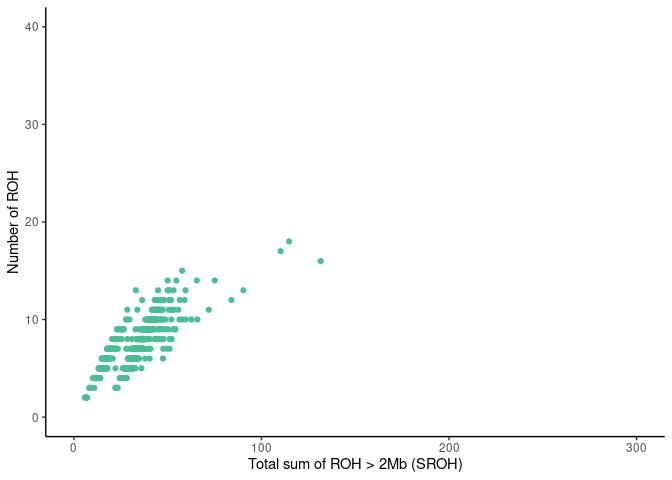
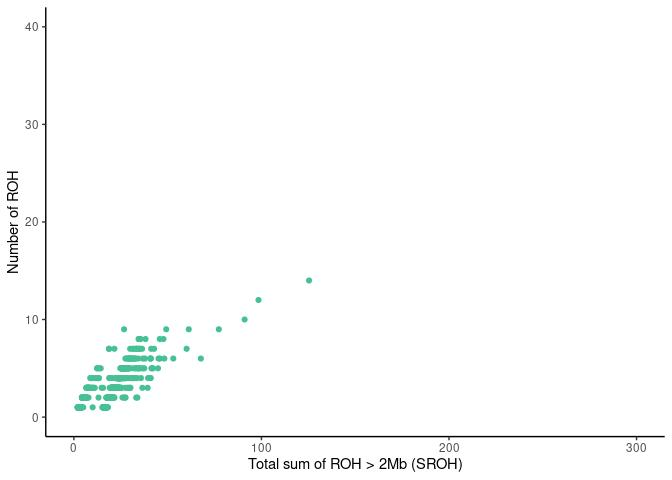
filtered centromers and new coverage plot

diff --git a/roh/roh.md b/roh/roh.md
@@ -6,29 +6,37 @@ Runs of homozygosity on 943 individuals
 #### ROHs quality histogram
 
 ``` r
-# Quality filtering: Quality>25 & #markers > 50
+# Quality filtering: Quality>25 & markers > 50 & removing all centromer regions
 roh <- roh %>% 
   filter(Quality > 25 & Number_of_markers >50)
+
+cent <- fread('cytoBand.txt') %>% select(-V4)
+colnames(cent) <- c('Chromosome','start','end','stain')
+roh <- roh %>% left_join(cent,by='Chromosome')
+roh <- roh %>% mutate(start = Start-start, end = End-end)
+roh$cent <- ifelse(roh$start > 0 & roh$end < 0, 'cent',NA)
+roh <- roh %>% filter(is.na(cent) == T) %>% 
+  select(Chromosome:sample_id)
 ```
 
 #### ROH stats after quality filtering
 
 | stat                |   min |  median |      mean |        max |
 |:--------------------|------:|--------:|----------:|-----------:|
-| Length              | 609.0 | 72459.0 | 123018.00 | 29363916.0 |
-| Number\_of\_markers |  51.0 |   132.0 |    193.66 |    33173.0 |
-| Quality             |  25.1 |    60.4 |     59.40 |       98.7 |
+| Length              | 609.0 | 71653.0 | 113793.15 | 29363916.0 |
+| Number\_of\_markers |  51.0 |   131.0 |    185.94 |    33173.0 |
+| Quality             |  25.1 |    60.5 |     59.50 |       98.7 |
 
 Average ROH size per genome (additionally filtered: &gt;100kb)
 
 | stat      |       average |
 |:----------|--------------:|
-| count     |       1124.41 |
-| maxLen    |   14239847.30 |
-| meanLen   |     252746.68 |
-| medianLen |     164071.12 |
-| minLen    |     100073.33 |
-| sumLen    | 284174602\.38 |
+| count     |       1082.49 |
+| maxLen    |   14040018.37 |
+| meanLen   |     229953.03 |
+| medianLen |     161764.60 |
+| minLen    |     100073.90 |
+| sumLen    | 248954186\.30 |
 
 ## Results
 
@@ -43,11 +51,18 @@ Average ROH size per genome (additionally filtered: &gt;100kb)
 
 ![](roh_files/figure-gfm/cummulative_sum-1.jpeg)<!-- -->
 
+Fig. Relation between size of runs of homozygozity and cumulative length
+of RoHs in an average individual.
+
     ## `summarise()` has grouped output by 'sample_id'. You can override using the `.groups` argument.
 
 ![](roh_files/figure-gfm/lengths_per_chromosome-1.jpeg)<!-- -->
 
+Fig. Distribution of mean length of runs of homozygozity per chromosome
+
 ![](roh_files/figure-gfm/numbers_per_chromosome-1.jpeg)<!-- -->
+
+Fig. Distribution of counts of runs of homozygozity per chromosome
 
 2.  Median SROH
 
@@ -60,7 +75,14 @@ Average ROH size per genome (additionally filtered: &gt;100kb)
 
 2.  Coverage heatmap
 
+<!-- -->
+
+    ## Loading required package: regioneR
+
 ![](roh_files/figure-gfm/genome_coverage_heatmap-1.jpeg)<!-- -->
+
+Fig. Chromosomal location of run of homozygozity hotspots - regions
+frequently covered by runs of homozygozity in this cohort.
 
 ### All results below are ROHs filter for autosomes with Quality &gt; 25%, Number of markers &gt; 50 and ROH length &gt; 2 Mb
 
@@ -70,40 +92,17 @@ Average ROH size per genome (additionally filtered: &gt;100kb)
 
 |     | mean\_SROH\_Mb  |
 |:----|:----------------|
-|     | Min. : 5.821    |
-|     | 1st Qu.: 28.883 |
-|     | Median : 33.855 |
-|     | Mean : 33.207   |
-|     | 3rd Qu.: 37.978 |
-|     | Max. :131.589   |
+|     | Min. : 2.016    |
+|     | 1st Qu.: 17.179 |
+|     | Median : 20.304 |
+|     | Mean : 20.350   |
+|     | 3rd Qu.: 24.015 |
+|     | Max. :125.382   |
 
 | Range    | mean\_length |
 |:---------|-------------:|
-| 2Mb-5Mb  |     2.892791 |
+| 2Mb-5Mb  |     2.717998 |
 | &gt;10Mb |    16.239240 |
-
-<!-- 4. Sum of ROHs per chromosome and individual -->
-<!-- ```{r, echo=F} -->
-<!-- roh$Chromosome <- gsub('chr','',roh$Chromosome) -->
-<!-- roh$Chromosome <- as.numeric(roh$Chromosome) -->
-<!-- roh$Chromosome <- factor(roh$Chromosome) -->
-<!-- roh$Chromosome <- ordered(roh$Chromosome, levels = 1:22) -->
-<!-- roh %>% group_by(sample_id,Chromosome,Range) %>% -->
-<!--   arrange(desc(Chromosome)) %>% -->
-<!--   summarise(SROH_Mb = sum(Length)/1e+06) %>% -->
-<!--   ggplot(aes(x=Chromosome,y=SROH_Mb,col=Range)) + -->
-<!--   geom_jitter() + -->
-<!--   theme_classic() + -->
-<!--   ylab('SROH (Mb)') + -->
-<!--   xlab('Chromosome') + -->
-<!--   scale_color_manual(values=group.colors) -->
-<!-- kable(summary( -->
-<!--   roh %>% group_by(sample_id,Chromosome) %>% -->
-<!--   summarise(mean_SROH_Mb = sum(Length)/1e+06) %>% -->
-<!--     select(mean_SROH_Mb) -->
-<!--   ) -->
-<!-- ) -->
-<!-- ``` -->
 
 5.  Sum of ROH length per range
 
@@ -115,12 +114,12 @@ Average ROH size per genome (additionally filtered: &gt;100kb)
 
 |     | 2Mb-5Mb        | &gt;10Mb       |
 |:----|:---------------|:---------------|
-|     | Min. : 5.815   | Min. : 10.00   |
-|     | 1st Qu.:15.537 | 1st Qu.: 15.89 |
-|     | Median :18.727 | Median : 16.76 |
-|     | Mean :19.026   | Mean : 17.77   |
-|     | 3rd Qu.:21.975 | 3rd Qu.: 17.17 |
-|     | Max. :42.199   | Max. :104.20   |
+|     | Min. : 2.000   | Min. : 10.03   |
+|     | 1st Qu.: 2.932 | 1st Qu.: 15.89 |
+|     | Median : 5.236 | Median : 16.76 |
+|     | Mean : 6.239   | Mean : 17.87   |
+|     | 3rd Qu.: 8.106 | 3rd Qu.: 17.17 |
+|     | Max. :25.865   | Max. :104.20   |
 
 6.  Relationship between number of ROHs and total length of genome
     covered by them
